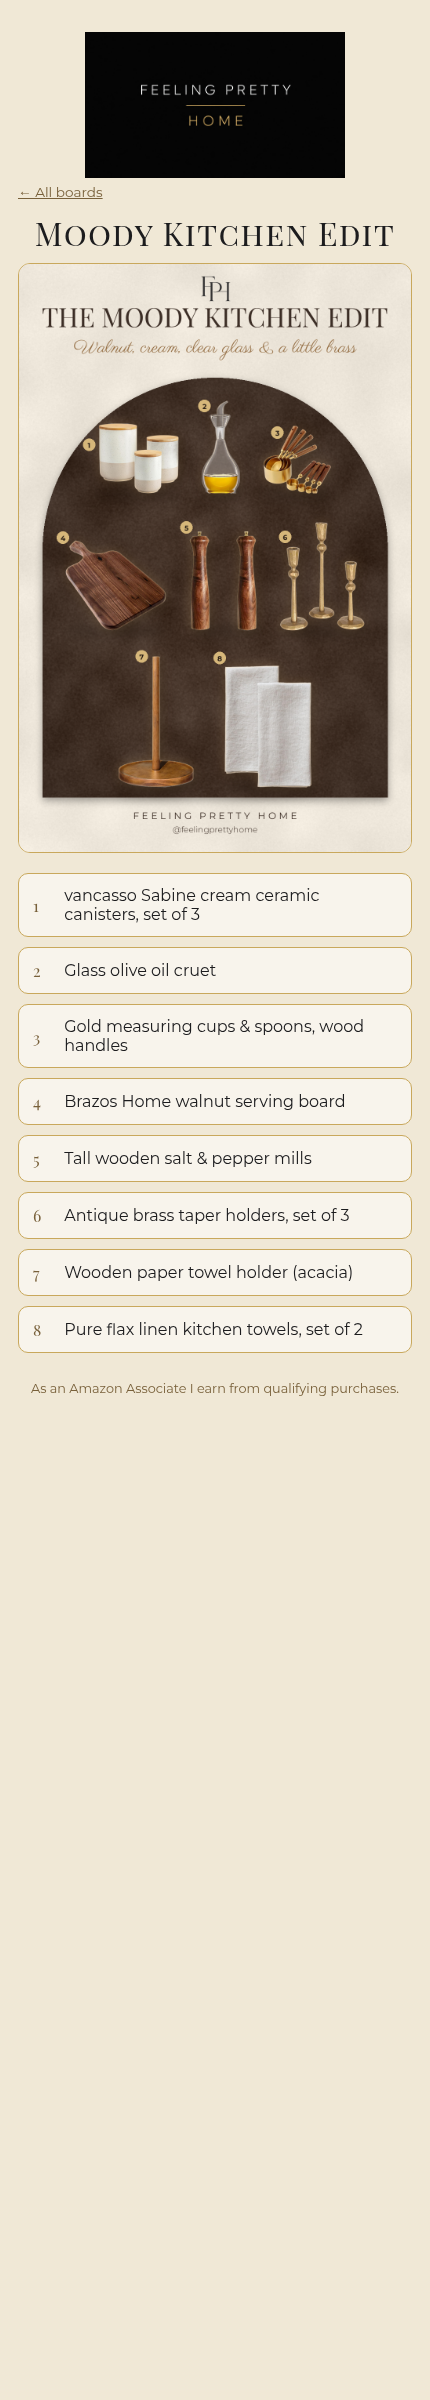
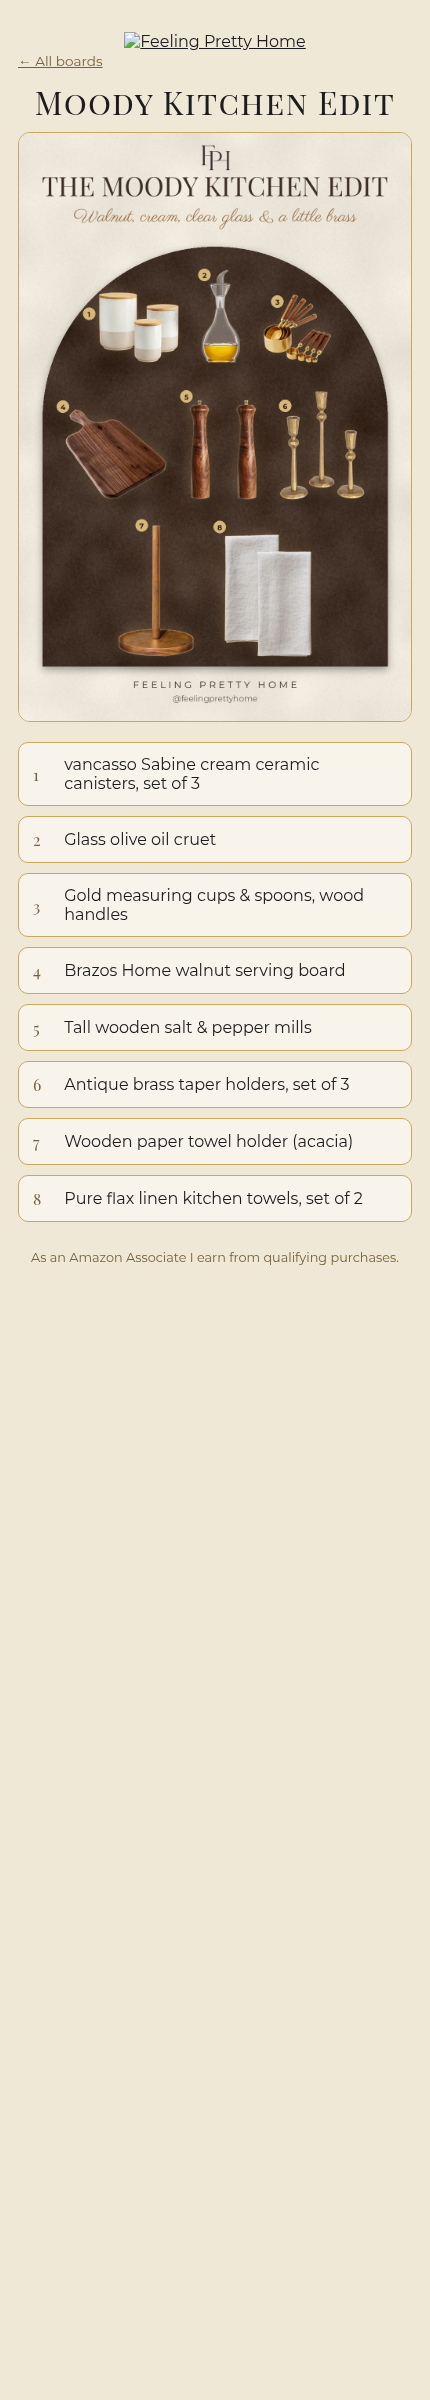
Use transparent monogram on cream

diff --git a/app/layout.tsx b/app/layout.tsx
@@ -5,5 +5,5 @@ const script=Parisienne({weight:"400",subsets:["latin"],variable:"--font-script"
 const body=Montserrat({subsets:["latin"],variable:"--font-body"});
 export const metadata={title:"Feeling Pretty Home — Shop the Boards"};
 export default function L({children}:{children:React.ReactNode}){return(<html lang="en" className={`${head.variable} ${script.variable} ${body.variable}`}><body><main>
-<header><a href="/"><img src="/logos/fph-wordmark-A-black.png" alt="Feeling Pretty Home" width={260}/></a></header>
+<header><a href="/"><img src="/logos/fph-monogram-black-alpha.png" alt="Feeling Pretty Home" width={90}/><p className="script" style={{margin:0}}>Feeling Pretty Home</p></a></header>
 {children}<p className="disc">As an Amazon Associate I earn from qualifying purchases.</p></main></body></html>)}
